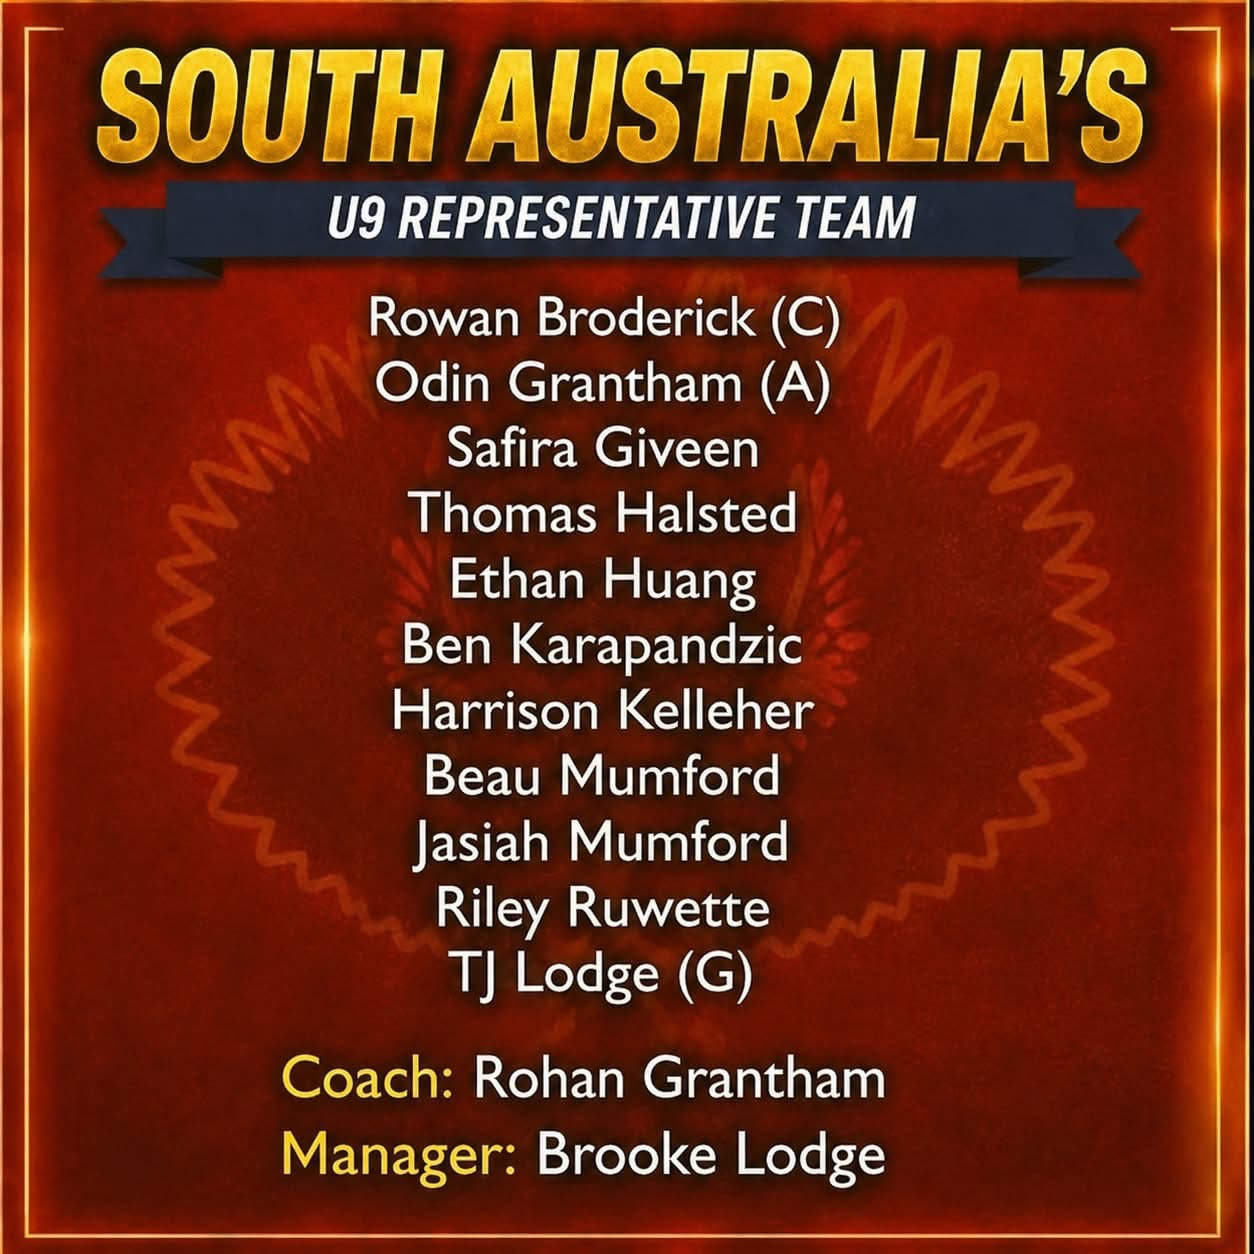
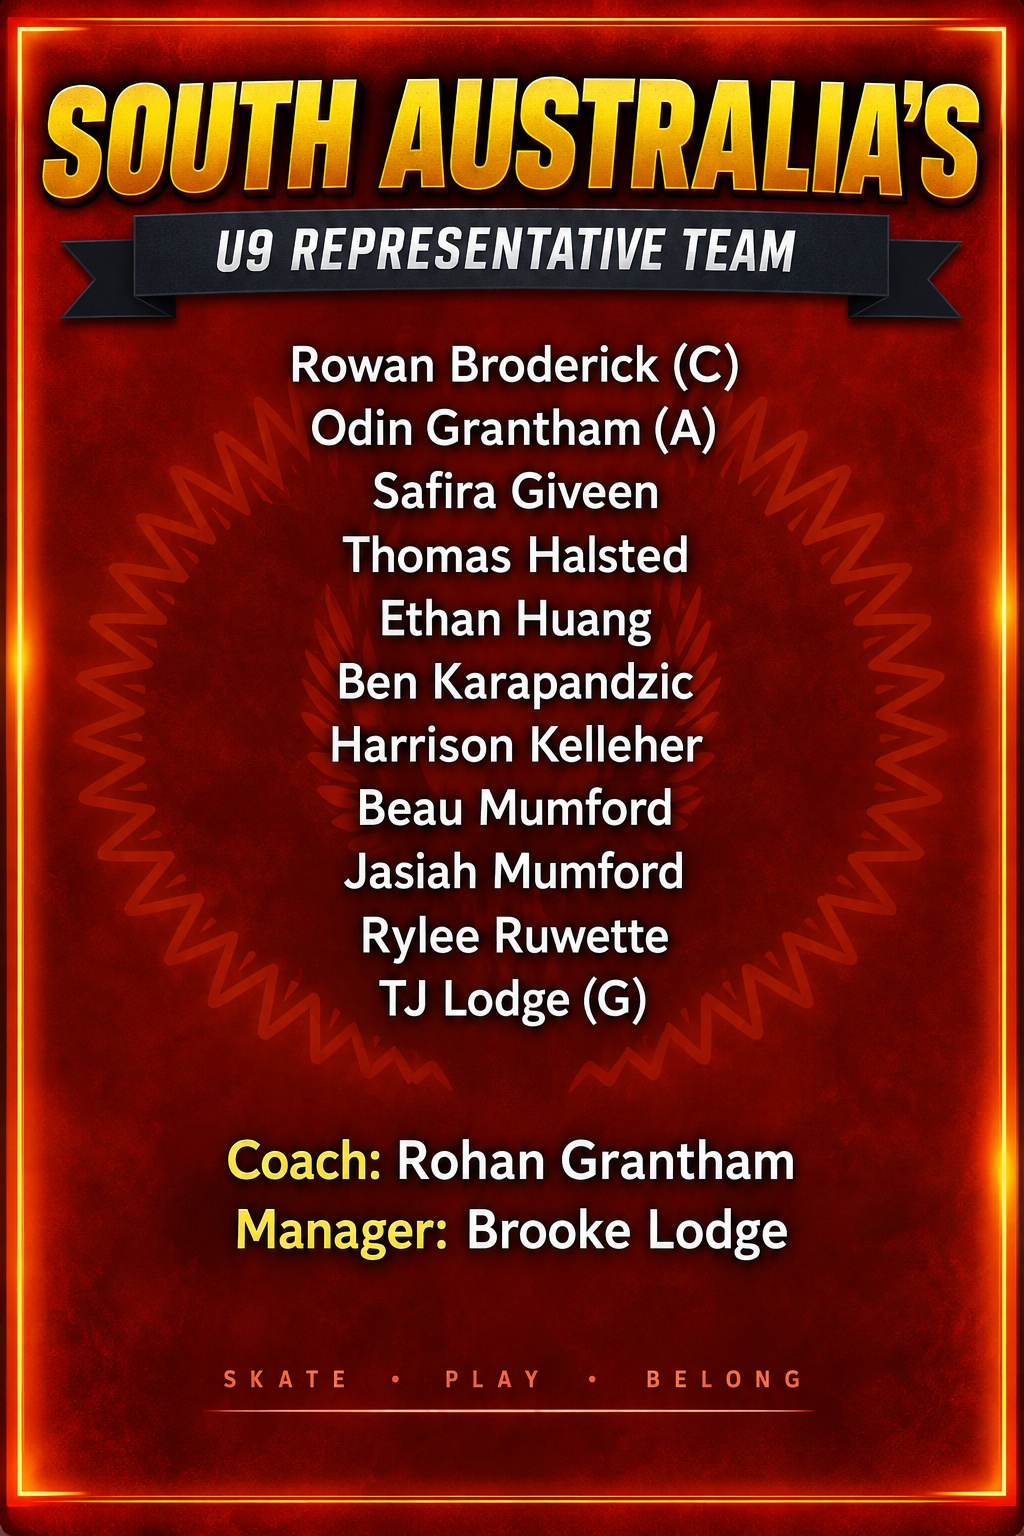
Add files via upload

diff --git a/app.js b/app.js
@@ -14,7 +14,7 @@ function nextCard(g){if(!g)return `<div class="card"><b>No upcoming game locked 
 function countdownCard(){const c=countdown();return `<div class="countdown-card home-countdown"><div><span class="countdown-number">${esc(c.main)}</span><div><strong>${esc(c.label)}</strong><small>27 Sep – 4 Oct 2026 · Skate Paradise, Queensland</small></div></div><span class="status-chip">${esc(c.status)}</span></div>`}
 function announcements(){const items=(d.announcements||[]).filter(a=>a.active);if(!items.length)return'';return `${title('Team Announcements')}<div class="announcement-list">${items.map((a,i)=>`<article class="card announcement priority-${esc(a.priority||'info')}"><div class="announcement-top"><span class="announcement-badge">${a.priority==='important'?'IMPORTANT':a.priority==='reminder'?'REMINDER':'INFO'}</span><span>${esc(a.updated)}</span></div><h3>${esc(a.title)}</h3>${(a.sections||[]).length?`<div class="announcement-sections">${a.sections.map(s=>`<section class="announcement-section"><h4><span class="announcement-section-icon">${esc(s.icon||'')}</span>${esc(s.heading)}</h4><p>${esc(s.text)}</p></section>`).join('')}</div>`:`<p>${esc(a.message||'')}</p>`}<div class="announcement-meta">Posted by ${esc(a.author||'Team Manager')}</div>${(a.actions||[]).length?`<div class="announcement-actions">${a.actions.map(x=>ext(x.url,esc(x.label),'button-link')).join('')}</div>`:''}<button class="share-announcement" data-announcement="${i}">${svgIcon('share')}<span>Share to U9 Messenger</span></button></article>`).join('')}</div>`}
 function home(){const g=nextGame();return `<img class="hero-img" src="./assets/sa-u9-home-hero.png" alt="SA U9 Nationals 2026">${countdownCard()}${nextCard(g)}${announcements()}${title('Quick Access')}<div class="quick-grid">${quick('Schedule & Results','Games, scores & finals','schedule','go','schedule')}${quick('Nationals','Event info & links','nationals','go','info')}${quick('Official Facebook','Nationals updates','facebook','url',d.meta.facebookCanonicalUrl)}${quick('U9 Messenger','Team group chat','messenger','url',d.meta.messengerGroupUrl)}${quick('HockeySyte','Results & stats','hockey','url',d.meta.hockeySyteUrl)}${quick('YouTube','Streams & videos','youtube','url',d.meta.youtubeUrl)}</div>${title('Official Nationals Feed')}<div class="card facebook-card"><div class="facebook-head"><div class="fb-logo">f</div><div><b>Australian Inline Hockey National Championships</b><small>Official Nationals Facebook page</small></div></div><iframe class="facebook-frame" loading="lazy" title="Official Nationals Facebook feed" src="https://www.facebook.com/plugins/page.php?href=${encodeURIComponent(d.meta.facebookCanonicalUrl)}&tabs=timeline&width=500&height=520&small_header=false&adapt_container_width=true&hide_cover=false&show_facepile=false"></iframe><div class="fallback"><span>If Facebook blocks the embedded feed, open the official page directly.</span>${ext(d.meta.facebookCanonicalUrl,'Open Facebook')}</div></div>${title('Need help?')}<div class="card help"><h3>Brooke (Team Manager) or Rohan (Coach)</h3><p>For U9 team questions, use our Messenger group so the right person can help quickly.</p><div class="help-actions">${ext(d.meta.messengerGroupUrl,'Open U9 Messenger Chat')}</div></div><div class="footer-note">Schedule ${d.meta.scheduleVersion} · Last updated ${d.meta.lastUpdated}</div>`}
-function team(){return `<img class="header-img" src="./assets/sa-u9-team-header.png" alt="SA U9 Team">${title('Official U9 Team Roster')}<div class="card roster-panel"><div class="roster-kicker">SOUTH AUSTRALIA</div><div class="roster-heading">U9 REPRESENTATIVE TEAM</div>${d.team.map(p=>`<div class="roster-row"><span>${esc(p.name)}</span>${p.badge?`<b>${esc(p.badge)}</b>`:''}</div>`).join('')}<div class="roster-staff">${d.staff.map(p=>`<div><b>${esc(p.role)}:</b> ${esc(p.name)}</div>`).join('')}</div></div>${title('Players & Staff')}${d.team.map(p=>`<div class="card person"><div class="avatar">${esc(p.badge||p.name[0])}</div><div class="person-copy"><strong>${esc(p.name)}</strong><small>${esc(p.role)}</small></div><div class="jersey" aria-label="Jersey number ${esc(p.number)}"><span class="jersey-crest">SA</span><b>${esc(p.number)}</b></div>${p.badge?`<div class="badge">${esc(p.badge)}</div>`:''}</div>`).join('')}${title('Team Staff')}${d.staff.map(p=>`<div class="card person"><div class="avatar staff">${esc(p.name[0])}</div><div class="person-copy"><strong>${esc(p.name)}</strong><small>${esc(p.role)}</small></div></div>`).join('')}`}
+function team(){return `<img class="header-img" src="./assets/sa-u9-team-header.png" alt="SA U9 Team">${title('Official U9 Team Roster')}<div class="card official-roster-card"><img class="official-roster-img" src="./assets/sa-u9-official-roster.jpeg?v=13" alt="South Australia U9 Representative Team roster"></div><div class="card roster-panel"><div class="roster-kicker">SOUTH AUSTRALIA</div><div class="roster-heading">U9 REPRESENTATIVE TEAM</div>${d.team.map(p=>`<div class="roster-row"><span>${esc(p.name)}</span>${p.badge?`<b>${esc(p.badge)}</b>`:''}</div>`).join('')}<div class="roster-staff">${d.staff.map(p=>`<div><b>${esc(p.role)}:</b> ${esc(p.name)}</div>`).join('')}</div></div>${title('Players & Staff')}${d.team.map(p=>`<div class="card person"><div class="avatar">${esc(p.badge||p.name[0])}</div><div class="person-copy"><strong>${esc(p.name)}</strong><small>${esc(p.role)}</small></div><div class="jersey" aria-label="Jersey number ${esc(p.number)}"><span class="jersey-crest">SA</span><b>${esc(p.number)}</b></div>${p.badge?`<div class="badge">${esc(p.badge)}</div>`:''}</div>`).join('')}${title('Team Staff')}${d.staff.map(p=>`<div class="card person"><div class="avatar staff">${esc(p.name[0])}</div><div class="person-copy"><strong>${esc(p.name)}</strong><small>${esc(p.role)}</small></div></div>`).join('')}`}
 function resultBlock(g){if(hasResult(g))return `<div class="result-final"><span>FINAL</span><strong>${esc(g.home)} ${g.homeScore} – ${g.awayScore} ${esc(g.away)}</strong></div>`;if(ended(g))return `<div class="notice result-pending">Game complete · official result pending. ${ext(d.meta.hockeySyteUrl,'Check HockeySyte')}</div>`;return ''}
 function scheduleCard(g,cond=false){const match=g.home&&g.away?`${g.home} vs ${g.away}`:g.match;return `<div class="card schedule-card"><div class="top"><div class="date">${esc(g.dateLabel)}</div><div class="fixture">Game ${esc(g.id)}</div></div><h3>${esc(match)}</h3><div class="schedule-details"><div class="detail"><span>Game</span><strong>${esc(g.timeLabel)}</strong></div><div class="detail"><span>Team arrival</span><strong>${esc(g.arrivalLabel)}</strong></div></div>${resultBlock(g)}${cond?`<div class="notice">${esc(g.note)}</div>`:''}</div>`}
 function schedule(){const upcoming=d.schedule.filter(g=>!ended(g)),past=d.schedule.filter(g=>ended(g)),r=record();return `<img class="header-img" src="./assets/schedule-results-header.png" alt="Schedule and Results"><div class="card"><div class="stats"><div><strong>${r.w}-${r.l}-${r.dr}</strong><span>W-L-D</span></div><div><strong>${r.gf}</strong><span>Goals For</span></div><div><strong>${r.ga}</strong><span>Goals Against</span></div></div><div class="official-results-link">${ext(d.meta.hockeySyteUrl,'View official HockeySyte results & stats')}</div></div>${title('Upcoming Games',d.meta.scheduleVersion)}${upcoming.length?upcoming.map(g=>scheduleCard(g)).join(''):`<div class="card">Round-robin games complete.</div>`}${past.length?`${title('Completed Games')}${past.map(g=>scheduleCard(g)).join('')}`:''}${title('Finals Pathway','Conditional · depends on ladder position')}<div class="card"><b>Finals are conditional</b><p>SA’s finals pathway depends on our position after the round robin. Please keep these times available. Confirmed SA matchups will be updated once known.</p></div>${d.finals.map(g=>scheduleCard(g,true)).join('')}<details class="training-details"><summary>Completed Nationals Training</summary>${d.training.map(t=>`<div class="training-row"><span>${esc(t.dateLabel)}</span><b>${esc(t.timeLabel)}</b></div>`).join('')}</details>`}

diff --git a/sw.js b/sw.js
@@ -1,5 +1,5 @@
-const CACHE='sa-u9-nationals-v12';
-const CORE=['./','./index.html','./styles.css?v=12','./app.js?v=12','./app-data.js?v=12','./manifest.webmanifest','./assets/sa-u9-home-hero.png','./assets/sa-u9-team-header.png','./assets/nationals-2026-header.png','./assets/schedule-results-header.png','./assets/nationals-checklist-header.png','./assets/app-icon-192.png','./assets/app-icon-512.png','./docs/2026-skate-australia-national-championship-document.pdf','./docs/nationals-2026-draw-v2.8.xlsx'];
+const CACHE='sa-u9-nationals-v13';
+const CORE=['./','./index.html','./styles.css?v=13','./app.js?v=13','./app-data.js?v=13','./manifest.webmanifest','./assets/sa-u9-home-hero.png','./assets/sa-u9-team-header.png','./assets/sa-u9-official-roster.jpeg','./assets/nationals-2026-header.png','./assets/schedule-results-header.png','./assets/nationals-checklist-header.png','./assets/app-icon-192.png','./assets/app-icon-512.png','./docs/2026-skate-australia-national-championship-document.pdf','./docs/nationals-2026-draw-v2.8.xlsx'];
 self.addEventListener('install',e=>e.waitUntil(caches.open(CACHE).then(c=>c.addAll(CORE)).then(()=>self.skipWaiting())));
 self.addEventListener('activate',e=>e.waitUntil(caches.keys().then(keys=>Promise.all(keys.filter(k=>k!==CACHE).map(k=>caches.delete(k)))).then(()=>self.clients.claim())));
 self.addEventListener('fetch',e=>{if(e.request.method!=='GET')return;e.respondWith(fetch(e.request,{cache:'no-store'}).then(r=>{const copy=r.clone();caches.open(CACHE).then(c=>c.put(e.request,copy));return r}).catch(()=>caches.match(e.request)))});

diff --git a/styles.css b/styles.css
@@ -24,3 +24,5 @@
 
 /* V11: SA jersey numbers on Team cards */
 .jersey{margin-left:auto;position:relative;width:52px;height:45px;display:grid;place-items:center;background:linear-gradient(180deg,#d7262e 0 24%,#ffc629 24% 31%,#d7262e 31% 70%,#ffc629 70% 77%,#d7262e 77%);clip-path:polygon(17% 5%,32% 0,39% 10%,61% 10%,68% 0,83% 5%,100% 20%,88% 37%,80% 30%,80% 100%,20% 100%,20% 30%,12% 37%,0 20%);filter:drop-shadow(0 4px 5px rgba(0,0,0,.35));flex:0 0 52px}.jersey:before{content:"";position:absolute;inset:0;background:linear-gradient(90deg,transparent 0 16%,#0b1e3a 16% 22%,transparent 22% 78%,#0b1e3a 78% 84%,transparent 84%),linear-gradient(180deg,#0b1e3a 0 13%,transparent 13%);clip-path:inherit;pointer-events:none}.jersey b{position:relative;z-index:2;color:#ffc629;font-size:18px;line-height:1;-webkit-text-stroke:1px #0b1e3a;text-shadow:0 1px 0 #0b1e3a;font-weight:1000}.jersey-crest{position:absolute;z-index:2;top:6px;font-size:5px;line-height:1;color:#ffc629;font-weight:1000;letter-spacing:-.3px}.person .badge{margin-left:0}.person-copy{min-width:0;flex:1}@media(max-width:380px){.jersey{width:47px;height:41px;flex-basis:47px}.jersey b{font-size:16px}}
+
+.official-roster-card{padding:0;overflow:hidden}.official-roster-img{display:block;width:100%;height:auto;border-radius:inherit}

diff --git a/index.html b/index.html
@@ -10,7 +10,7 @@
   <title>SA U9 Nationals 2026</title>
   <link rel="manifest" href="./manifest.webmanifest" />
   <link rel="apple-touch-icon" href="./assets/app-icon-180.png" />
-  <link rel="stylesheet" href="./styles.css?v=12" />
+  <link rel="stylesheet" href="./styles.css?v=13" />
 </head>
 <body>
   <div class="app-shell">
@@ -23,7 +23,7 @@
       <button class="nav-item" data-page="info"><span>i</span><b>Info</b></button>
     </nav>
   </div>
-  <script src="./app-data.js?v=12"></script>
-  <script src="./app.js?v=12"></script>
+  <script src="./app-data.js?v=13"></script>
+  <script src="./app.js?v=13"></script>
 </body>
 </html>

diff --git a/README.md b/README.md
@@ -1,4 +1,4 @@
-# SA U9 Inline Nationals 2026 — Team Hub V12
+# SA U9 Inline Nationals 2026 — Team Hub V13
 
 ## V12 schedule update — 18 September 2026
 - Updated to official Nationals Draw v2.8.
@@ -7,7 +7,13 @@
 - Conditional finals are clearly labelled and do not automatically become the Next Game.
 - Schedule version/date updated to v2.8 / 18 September 2026.
 - Info → Documents now opens the packaged Nationals Draw v2.8.
-- PWA cache bumped to V12.
+- PWA cache bumped to V13.
 - Existing V11 roster, jersey graphics, artwork, announcements, checklist and links retained.
 
 Upload/replace the full contents of this folder in the GitHub Pages repository, then commit.
+
+## V13 team artwork update — 19 September 2026
+- Corrected red/gold U9 Representative Team artwork included and displayed on the Team page.
+- Rylee Ruwette spelling is correct.
+- Roster includes Jasiah Mumford, Coach Rohan Grantham and Manager Brooke Lodge.
+- Updated artwork is included in the PWA cache.
